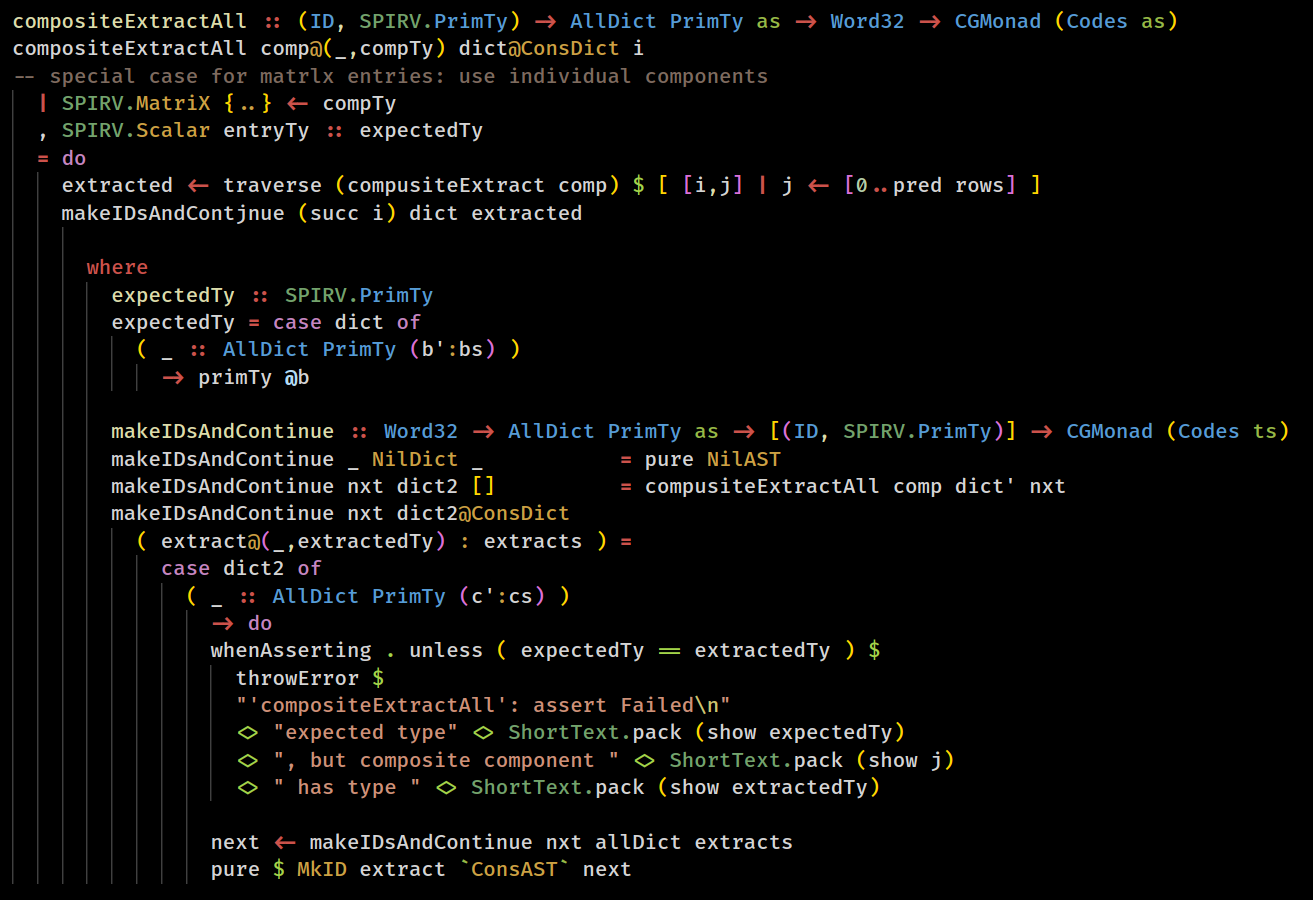
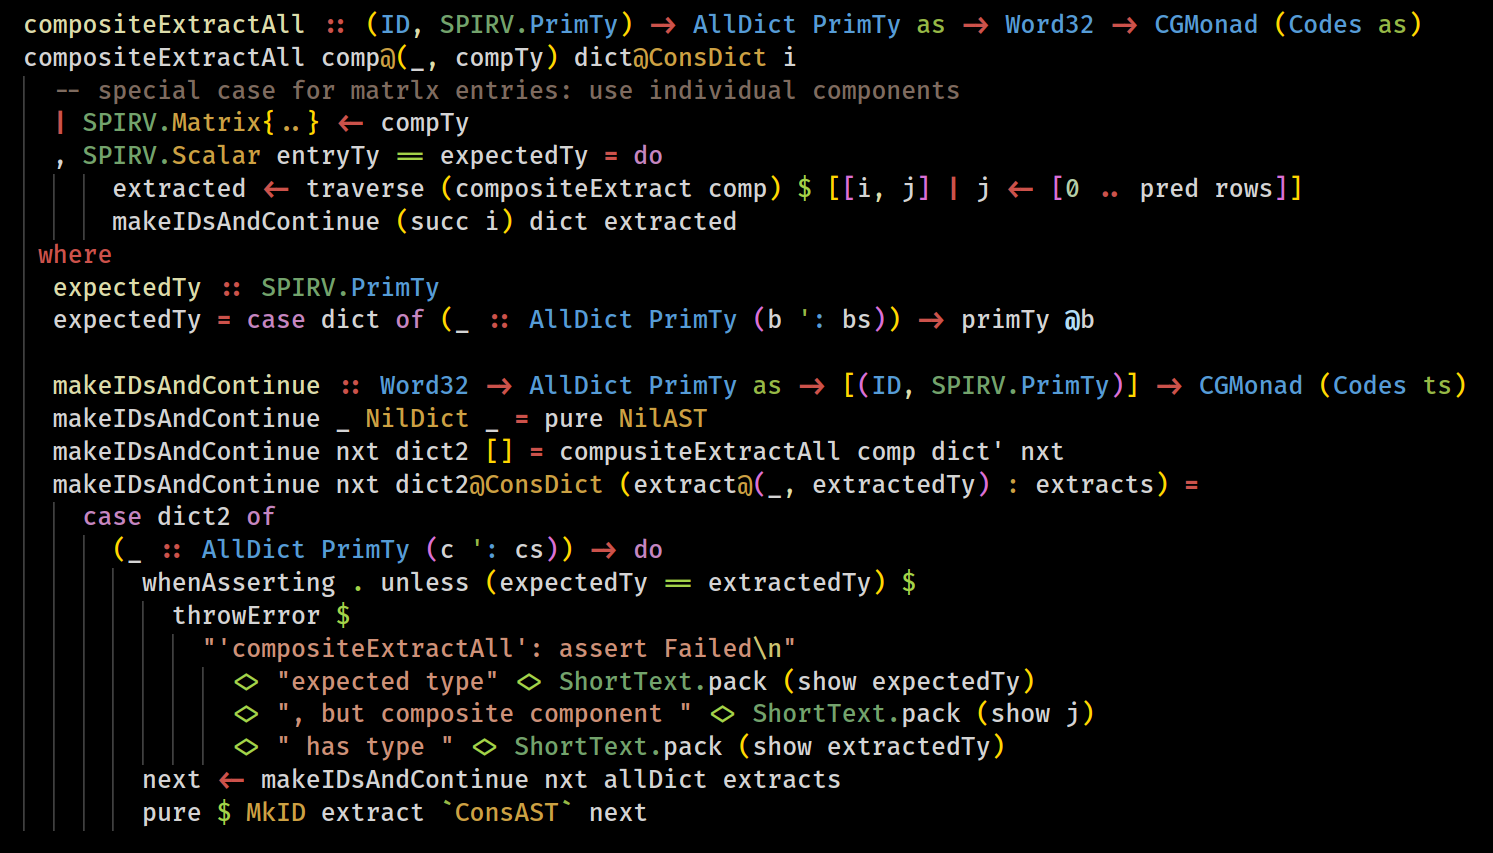
condensed the screenshots

Changed region(s): [[0.0, 0.0, 0.9992, 0.9754], [0.5621, 0.3658, 0.7494, 0.3962]]

diff --git a/readme.md b/readme.md
@@ -5,11 +5,11 @@ __Lambda Black__ is a VS Code color theme optimised for Haskell with extra synta
 ## Color schemes
 Black:
 <p align="center">
-  <img src="https://pomf2.lain.la/f/hir2e3kl.png" alt="Black color scheme" style="max-width:90%;">
+  <img src="https://pomf2.lain.la/f/e4es7p8s.png" alt="Black color scheme" style="max-width:90%;">
 </p>
 Dark+:
 <p align="center">
-  <img src="https://pomf2.lain.la/f/4z950u8h.png" alt="Dark+ color scheme" style="max-width:90%;">
+  <img src="https://pomf2.lain.la/f/0atm6yx.png" alt="Dark+ color scheme" style="max-width:90%;">
 </p>
 
 ## Features
